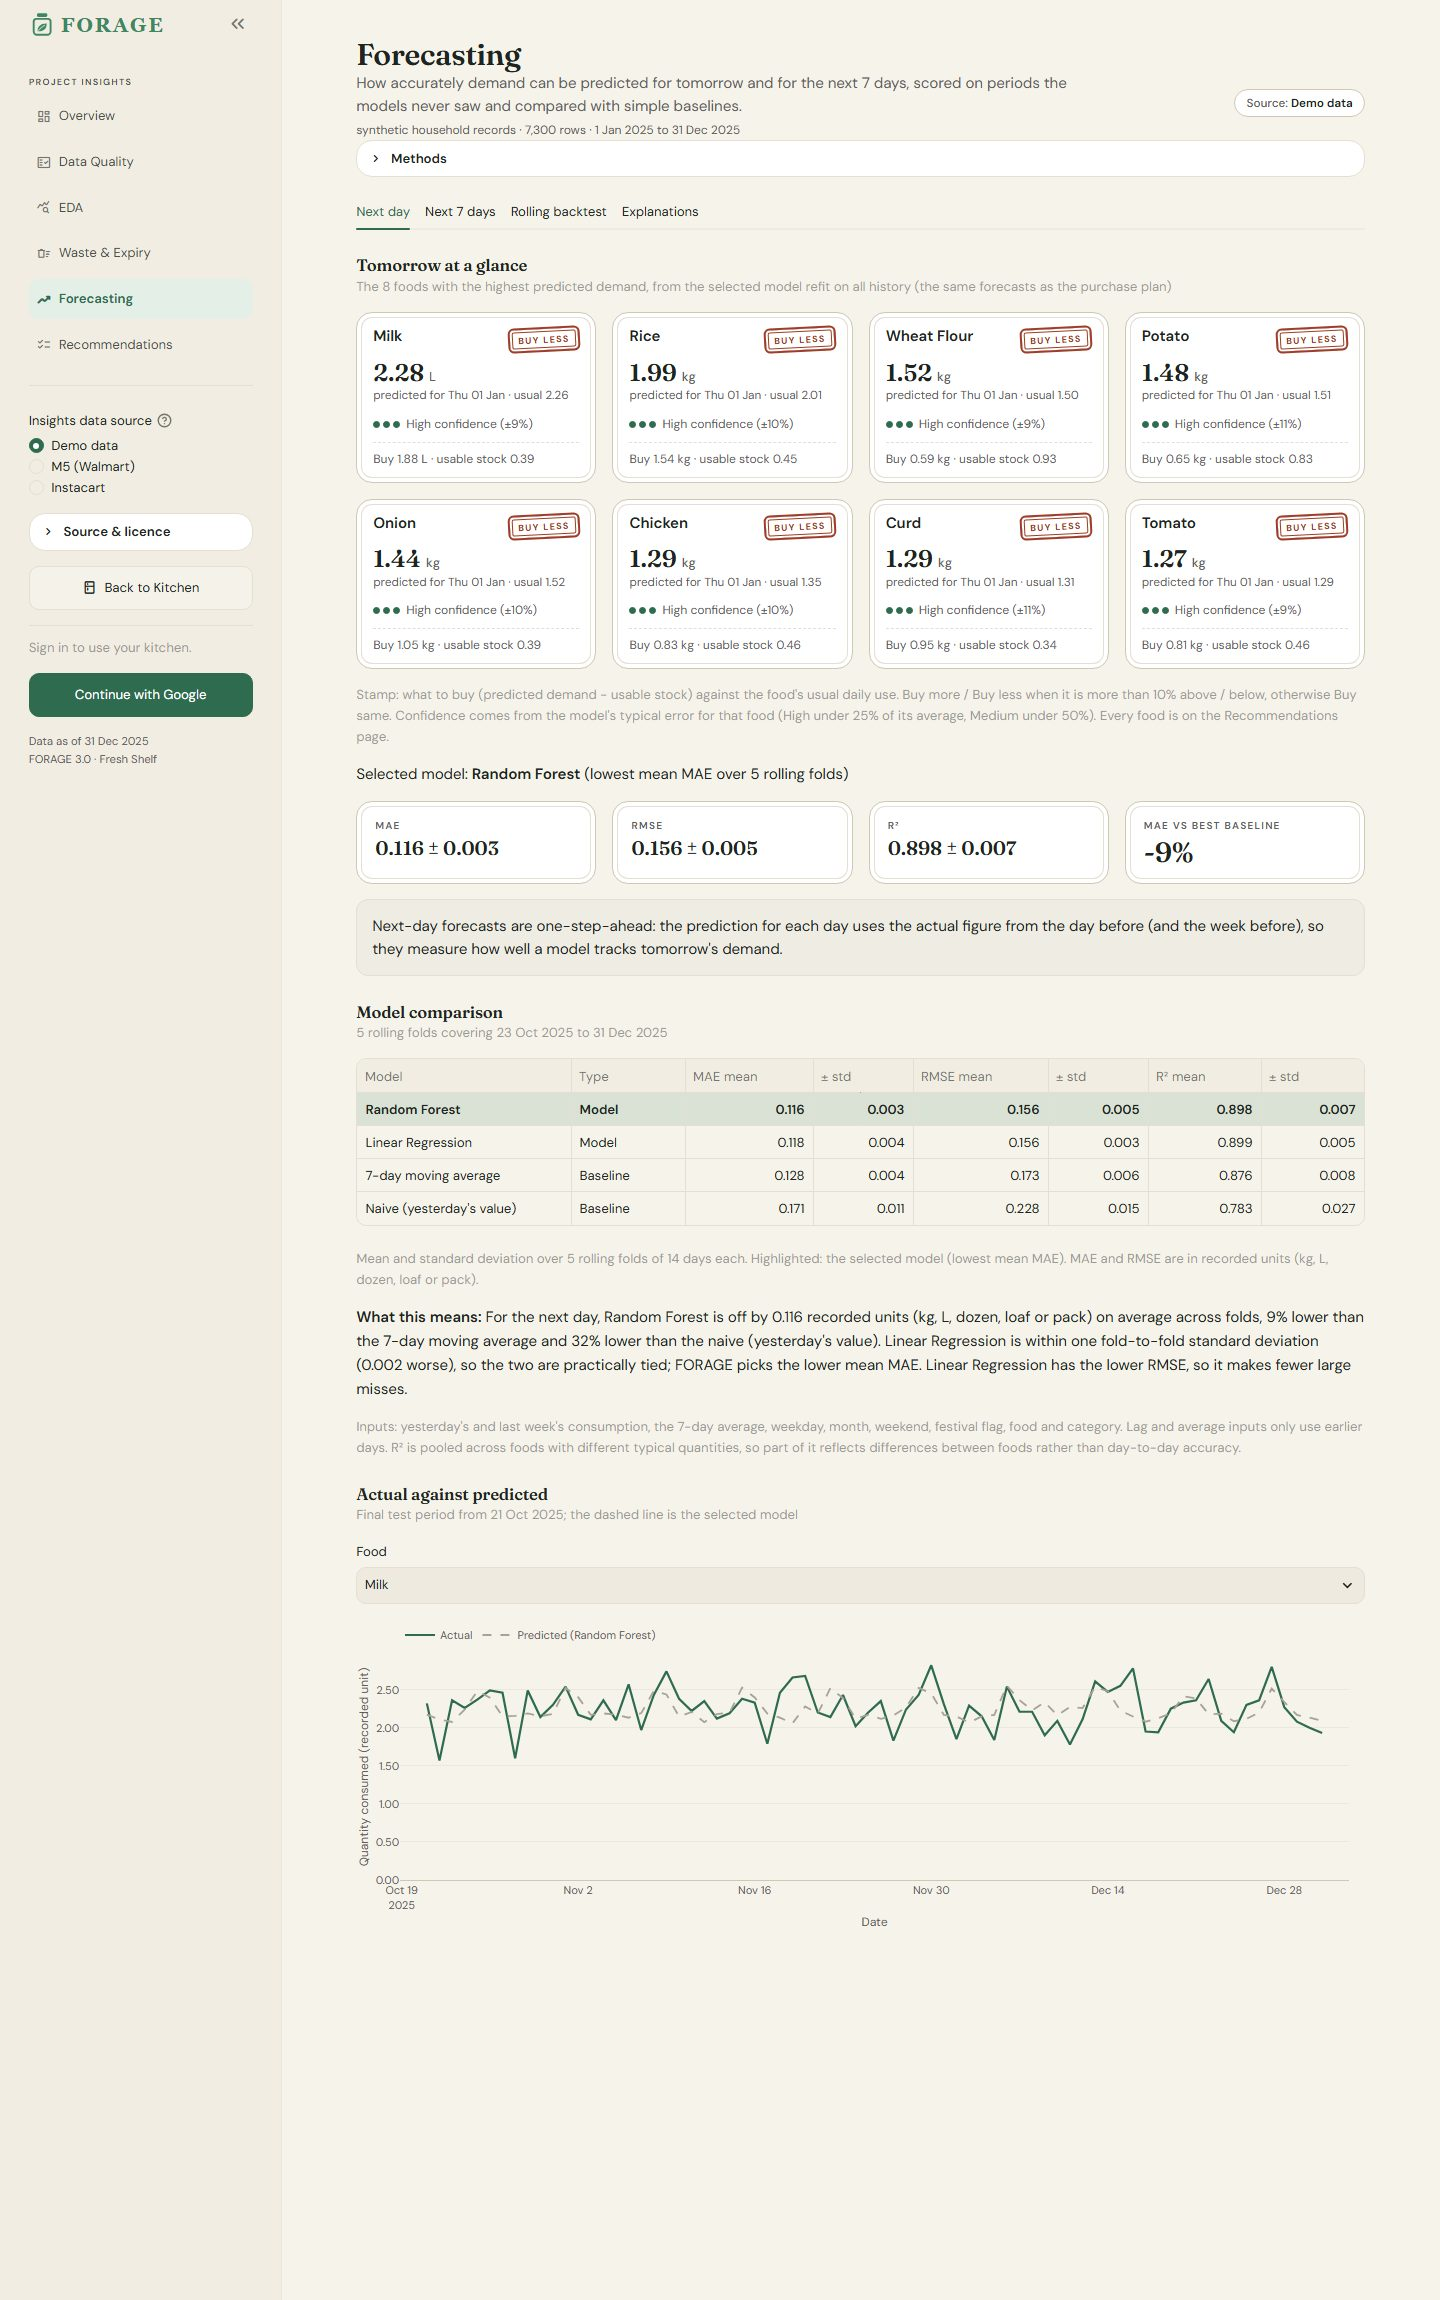
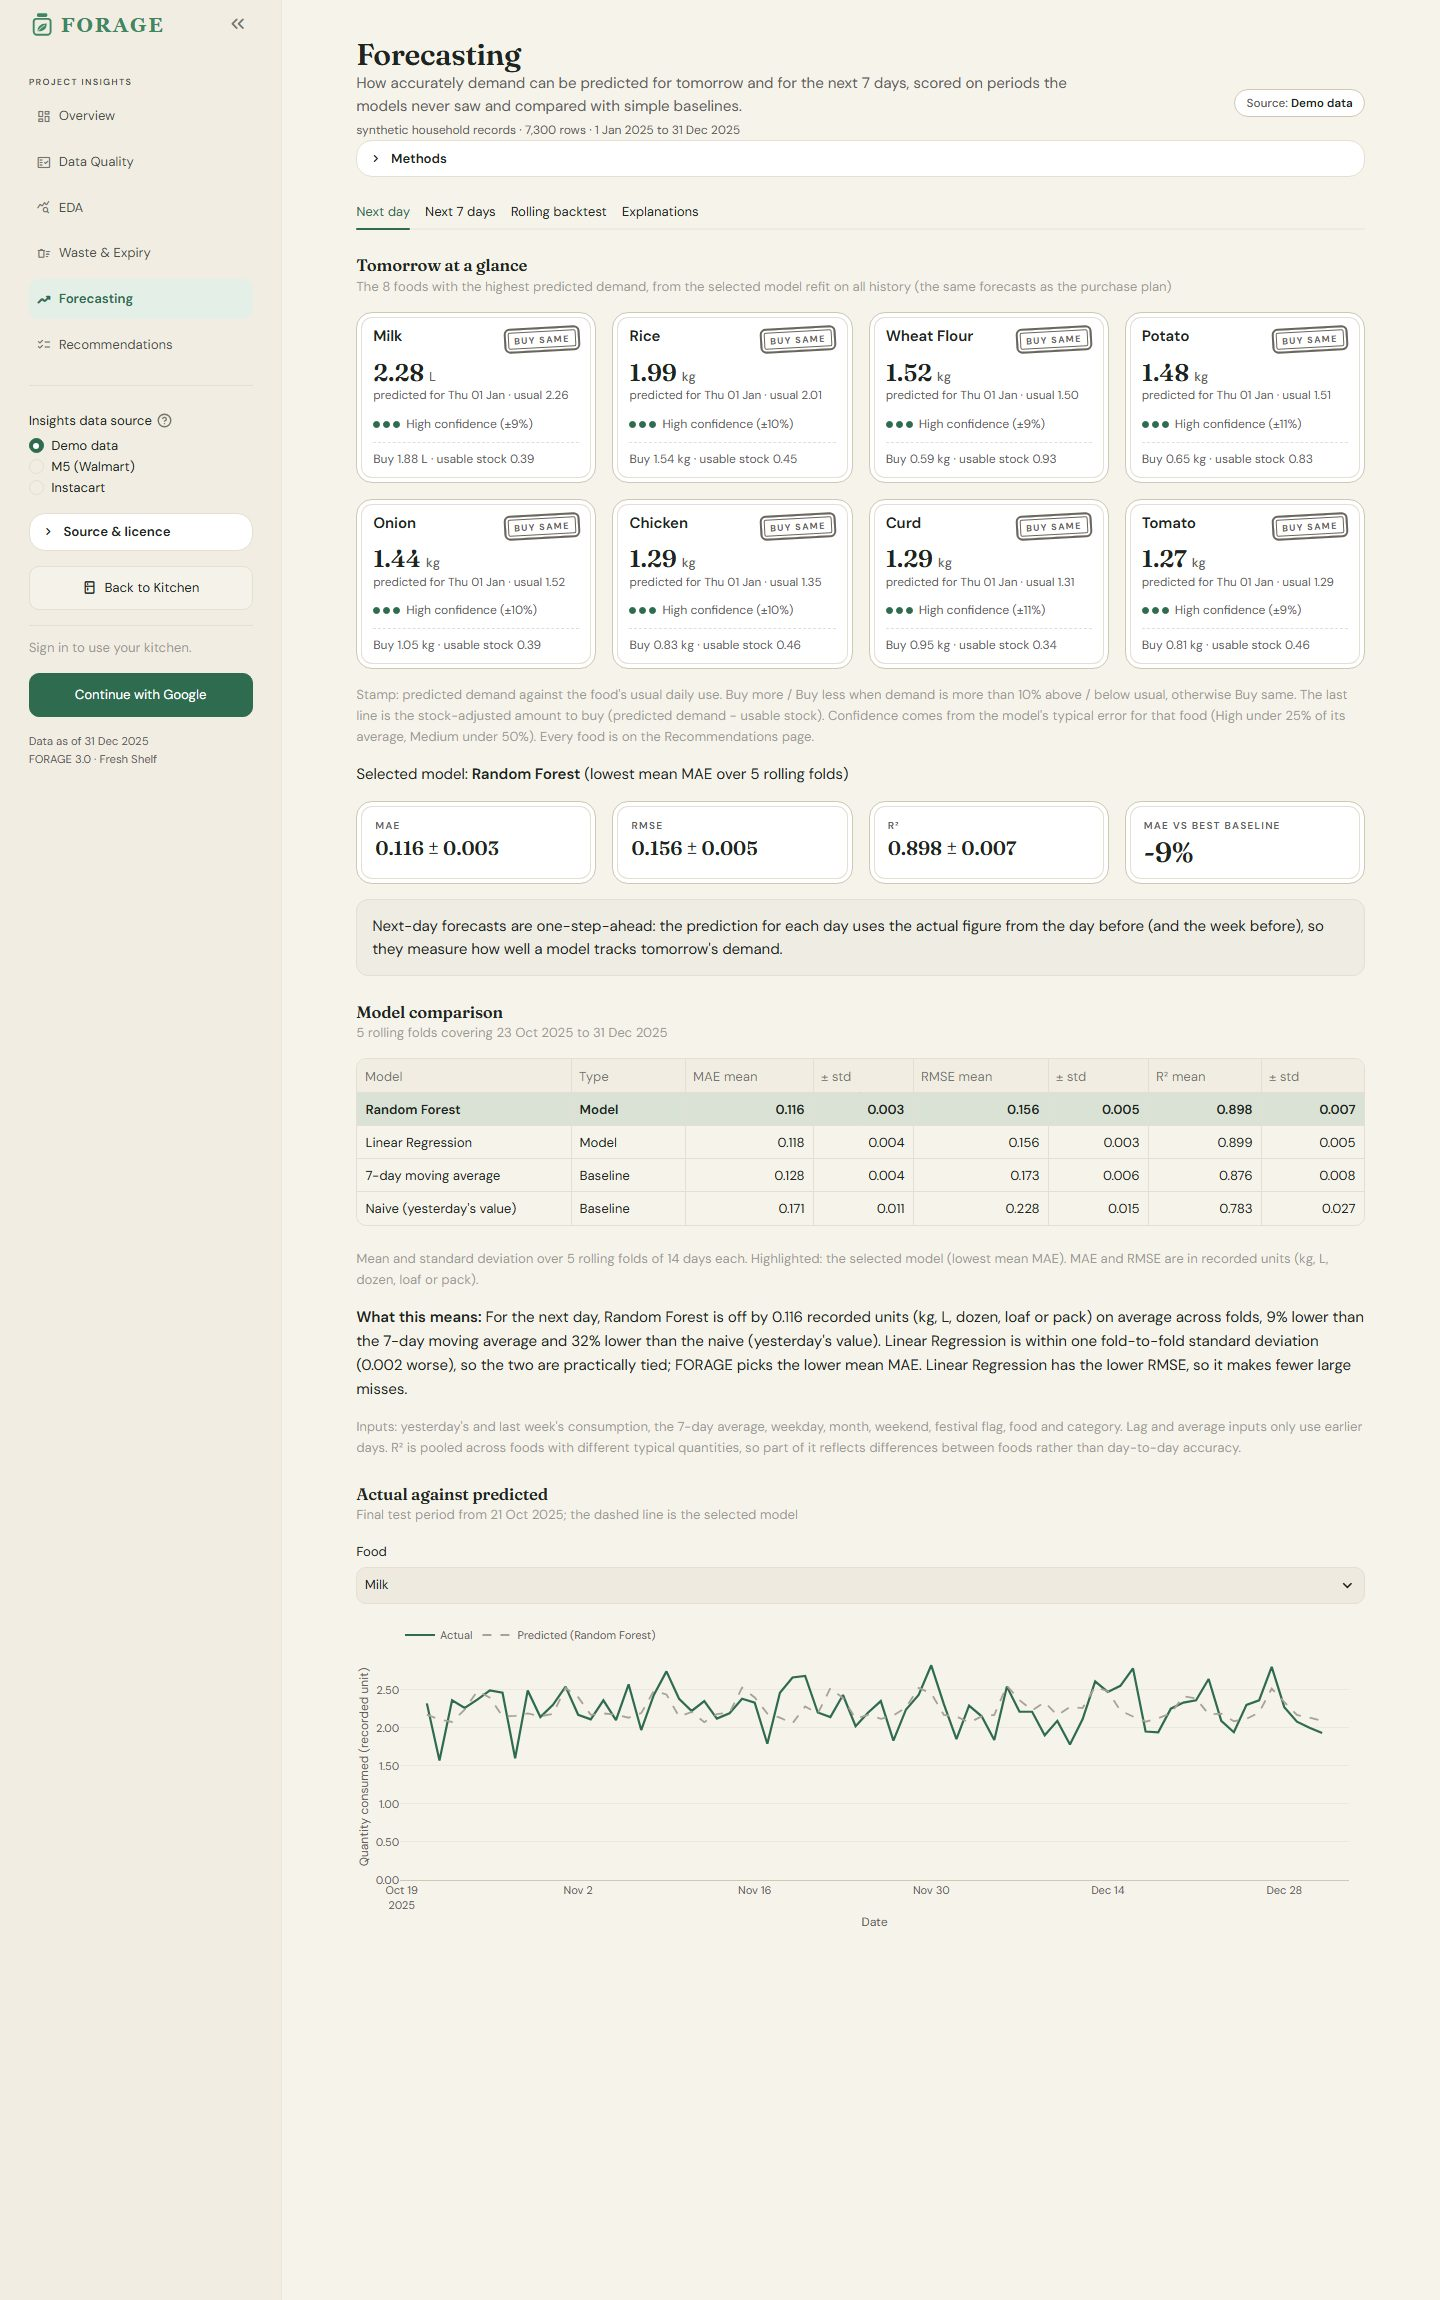
Fresh Shelf fix pass: meter text, demand stamps, wording, phone grid, Overview layout, scatter
- freshness meter: days label above a slim bar, never covered by the fill
- demand stamps: predicted demand vs usual daily use (±10%), same rule on Forecasting and
  Recommendations; the 'Buy X · usable stock Y' line keeps the stock-adjusted amount
- Waste & Expiry: 'Highest waste rate · food / · category'; Overview chart title says 'By ₹'
- phone: KPI label cards in a 2×2 grid (one column below 340 px)
- Overview: action list beside the top-wasted chart, shelves full width side by side
- scatter: day ticks on the log axis (3, 7, 14, 30 ...), top 3 labelled on leader lines
- docs/ui-review screenshots refreshed (crawl: 92 checks, 0 problems)

diff --git a/views/overview.py b/views/overview.py
@@ -65,7 +65,7 @@ def top_wasted(by_food: pd.Series, note: str) -> None:
         return
     share = top.iloc[0] / by_food.sum() * 100 if by_food.sum() else 0
     charts.bar(top.rename_axis("Food").reset_index(), "Food", "Rupees", value_title="₹ wasted",
-               value_format=",.0f", title=f"{top.index[0]} is the costliest waste: {share:.0f}% of all ₹ wasted",
+               value_format=",.0f", title=f"By ₹, {top.index[0]} is the costliest waste: {share:.0f}% of all ₹ wasted",
                subtitle=f"Top {len(top)} foods by ₹ wasted · {note}")
 
 
@@ -74,13 +74,16 @@ def shelves_preview(source: str, df: pd.DataFrame, as_of: pd.Timestamp) -> None:
     groups = shelf_items(source, df, as_of)
     st.html(f'<p class="fs-chart-title">On the shelf</p><p class="fs-chart-sub">As of {fmt_date(as_of)} · '
             "the items needing attention soonest on each shelf</p>")
-    for key, title, _, empty in SHELVES:
-        shelf(title, groups[key], empty=empty, limit=2)
+    for column, (key, title, _, empty) in zip(st.columns(3, gap="medium"), SHELVES):
+        with column:
+            shelf(title, groups[key], empty=empty, limit=2)
     st.page_link("views/waste.py", label="See every shelf", icon=":material/arrow_forward:")
 
 
-def pantry_dashboard(source: str, df: pd.DataFrame, board: dict, now: pd.Period, as_of: pd.Timestamp) -> None:
-    """Demo and My data: four pantry labels, the waste gauge and trend, top wasted foods and the shelves."""
+def pantry_dashboard(source: str, df: pd.DataFrame, board: dict, now: pd.Period, as_of: pd.Timestamp,
+                     actions: list[dict], no_actions: str) -> None:
+    """Demo and My data: four pantry labels, the waste gauge and trend, top wasted foods beside the action
+    list, then the three shelves side by side."""
     from services.pantry_view import label_items, pantry_labels
     illustrative = source == "demo"
     note = "Illustrative (synthetic prices)" if illustrative else "From the prices you paid"
@@ -104,7 +107,8 @@ def pantry_dashboard(source: str, df: pd.DataFrame, board: dict, now: pd.Period,
     with left:
         top_wasted(board["by_food"], note)
     with right:
-        shelves_preview(source, df, as_of)
+        action_list(actions, no_actions)
+    shelves_preview(source, df, as_of)
 
 
 source, df = begin("Overview", "Where food is bought, used and wasted, and what to do next. FORAGE is framed by "
@@ -122,15 +126,15 @@ elif df is not None:
     if source == "demo":
         from services.overview import demo_dashboard
         board = demo_dashboard()
-        pantry_dashboard(source, df, board, df["Date"].max().to_period("M"), df["Date"].max())
-        action_list(board["actions"], "Nothing urgent in the plan. Enjoy your week.")
+        pantry_dashboard(source, df, board, df["Date"].max().to_period("M"), df["Date"].max(), board["actions"],
+                         "Nothing urgent in the plan. Enjoy your week.")
     elif source == "personal":
         from services.overview import personal_dashboard
         from services.personal import personal_data
         board = personal_dashboard(*personal_data())
         today = pd.Timestamp.today().normalize()
-        pantry_dashboard(source, df, board, today.to_period("M"), today)
-        action_list(board["actions"], "Nothing is close to expiring or at risk of being wasted. Nice work.")
+        pantry_dashboard(source, df, board, today.to_period("M"), today, board["actions"],
+                         "Nothing is close to expiring or at risk of being wasted. Nice work.")
     elif source == "m5":
         from services.overview import m5_dashboard
         board = m5_dashboard()

diff --git a/ui/charts.py b/ui/charts.py
@@ -11,6 +11,7 @@ from __future__ import annotations
 
 from html import escape
 
+import numpy as np
 import pandas as pd
 import plotly.graph_objects as go
 import streamlit as st
@@ -195,22 +196,29 @@ def histogram(data: pd.DataFrame, value: str, *, value_title: str, bins: int = 3
 def scatter(data: pd.DataFrame, x: str, y: str, *, x_title: str, y_title: str, label: str,
             log_x: bool = False, height: int | None = None, tooltip: list | None = None, label_extremes: int = 3,
             title: str | None = None, subtitle: str | None = None) -> None:
-    """Scatter with direct labels only on the highest and lowest `label_extremes` points; hover shows the rest."""
+    """Scatter with direct labels only on the `label_extremes` highest points, on short leader lines clear of
+    the dots; hover names every point. A log x-axis gets readable day ticks (1, 3, 7, 14, 30 ...)."""
     palette = colors()
     specs = [_tip_spec(e) for e in (tooltip or [label, f"{x}:Q", f"{y}:Q"])]
     custom = data[[s["field"] for s in specs]].to_numpy()
-    ranked = data[y].rank(method="first")
-    labelled = data[(ranked <= label_extremes) | (ranked > len(data) - label_extremes)]
     fig = go.Figure()
     fig.add_trace(go.Scatter(x=data[x], y=data[y], mode="markers", customdata=custom,
                              marker={"size": 11, "color": palette["accent"], "opacity": 0.85,
-                                         "line": {"width": 1, "color": palette["card"]}},
+                                     "line": {"width": 1, "color": palette["card"]}},
                              hovertemplate=_hover(specs) + "<extra></extra>"))
-    fig.add_trace(go.Scatter(x=labelled[x], y=labelled[y], mode="text", text=labelled[label], textposition="middle right",
-                             textfont={"color": palette["muted"], "size": 11}, hoverinfo="skip", cliponaxis=False))
+    top = data.nlargest(label_extremes, y).sort_values(x) if label_extremes else data.iloc[0:0]
+    for i, (px, py, name) in enumerate(zip(top[x], top[y], top[label])):
+        fig.add_annotation(x=np.log10(px) if log_x else px, y=py, text=str(name), showarrow=True, arrowhead=0,
+                           arrowwidth=1, arrowcolor=palette["axis"], standoff=7, ax=(-1) ** i * 34,
+                           ay=-26 - 12 * (i % 2), font={"color": palette["muted"], "size": 11})
     fig.update_xaxes(title=x_title, type="log" if log_x else "linear", showgrid=True, gridcolor=palette["grid"])
+    if log_x and not data.empty:
+        low, high = data[x].min(), data[x].max()
+        ticks = [t for t in (1, 3, 7, 14, 30, 60, 90, 180, 365, 730) if low / 1.5 <= t <= high * 1.5]
+        fig.update_xaxes(tickvals=ticks, ticktext=[str(t) for t in ticks],
+                         range=[np.log10(low / 1.3), np.log10(high * 1.3)])
     fig.update_yaxes(title=y_title)
-    fig.update_layout(showlegend=False, margin={"r": 72})
+    fig.update_layout(showlegend=False, margin={"r": 64, "t": 48})
     _show(fig, height or HEIGHTS["large"], title, subtitle)
 
 

diff --git a/ui/theme.py b/ui/theme.py
@@ -184,14 +184,15 @@ hr { margin: 0.5rem 0 !important; border-color: var(--fs-line) !important; }
 .fs-chip b { color: var(--fs-text); font-weight: 600; }
 
 /* ---------- 2. Freshness meter ---------- */
-.fs-meter { position: relative; height: 20px; border-radius: 999px; background: var(--fs-stone-tint); overflow: hidden;
-  margin-top: 8px; }
+.fs-meter { position: relative; height: 6px; border-radius: 999px; background: var(--fs-stone-tint); overflow: hidden;
+  margin-top: 4px; }
 .fs-meter-fill { position: absolute; inset: 0 auto 0 0; border-radius: 999px; }
-.fs-meter-fill.fs-fresh { background: var(--fs-fresh-tint); box-shadow: inset -3px 0 0 var(--fs-fresh); }
-.fs-meter-fill.fs-soon { background: var(--fs-soon-tint); box-shadow: inset -3px 0 0 var(--fs-soon); }
-.fs-meter-fill.fs-gone { background: var(--fs-gone-tint); box-shadow: inset -3px 0 0 var(--fs-gone); }
-.fs-meter-text { position: relative; font-size: 0.72rem; font-weight: 700; line-height: 20px; padding: 0 9px;
-  color: var(--fs-text); white-space: nowrap; font-variant-numeric: tabular-nums; }
+.fs-meter-fill.fs-fresh { background: var(--fs-fresh); } .fs-meter-fill.fs-soon { background: var(--fs-soon); }
+.fs-meter-fill.fs-gone { background: var(--fs-gone); }
+.fs-meter-text { font-size: 0.75rem; font-weight: 700; line-height: 1.2; margin-top: 8px; white-space: nowrap;
+  font-variant-numeric: tabular-nums; }
+.fs-meter-text.fs-fresh { color: var(--fs-fresh-text); } .fs-meter-text.fs-soon { color: var(--fs-soon-text); }
+.fs-meter-text.fs-gone { color: var(--fs-gone-text); }
 
 /* ---------- 3. Shelves ---------- */
 .fs-shelf { margin: 4px 0 8px 0; }
@@ -265,10 +266,18 @@ hr { margin: 0.5rem 0 !important; border-color: var(--fs-line) !important; }
   .block-container { padding-left: 1rem; padding-right: 1rem; padding-top: 3.5rem; }
   .fg-pill { float: none; margin: 0.5rem 0 0 0; }
   h1 { font-size: 1.6rem !important; }
-  .fs-labels, .fs-demands { grid-template-columns: 1fr; }
+  .fs-labels { grid-template-columns: repeat(2, minmax(0, 1fr)); gap: 10px; }
+  .fs-label { padding: 12px 12px 10px; }
+  .fs-label-name { font-size: 0.85rem; }
+  .fs-label-compare { font-size: 0.75rem; }
+  .fs-demands { grid-template-columns: 1fr; }
   .fs-shelf-row { grid-template-columns: repeat(auto-fill, minmax(140px, 1fr)); }
-  .fs-label-value { font-size: 1.6rem; }
+  .fs-label-value { font-size: 1.4rem; }
+  .fs-label-value.fs-small { font-size: 1.1rem; }
   [data-testid="stElementToolbar"] { display: none; }
+}
+@media (max-width: 340px) {
+  .fs-labels { grid-template-columns: 1fr; }
 }
 """
 

diff --git a/views/common.py b/views/common.py
@@ -85,9 +85,10 @@ def not_available(source: str, what: str, reason: str, *, alternatives: list[str
 
 
 STAMP_BAND = 10  # % either side of usual use that still counts as "Buy same"
-STAMP_NOTE = ("Stamp: what to buy (predicted demand − usable stock) against the food's usual daily use. Buy more / "
-              "Buy less when it is more than 10% above / below, otherwise Buy same. Confidence comes from the model's "
-              "typical error for that food (High under 25% of its average, Medium under 50%).")
+STAMP_NOTE = ("Stamp: predicted demand against the food's usual daily use. Buy more / Buy less when demand is more "
+              "than 10% above / below usual, otherwise Buy same. The last line is the stock-adjusted amount to buy "
+              "(predicted demand − usable stock). Confidence comes from the model's typical error for that food "
+              "(High under 25% of its average, Medium under 50%).")
 
 
 def demand_stamp(predicted: float, usual: float, band: float = STAMP_BAND) -> str:
@@ -111,8 +112,7 @@ def demo_demand_cards(limit: int | None = None) -> None:
         if "likely to be wasted" in row.Alerts:
             note += f" · waste risk {row.Waste_Risk:.0f}%, buy carefully"
         cards.append(demand_card(row.Food, f"{row.Predicted_Demand:.2f}", row.Quantity_Unit,
-                                 stamp=demand_stamp(row.Recommended_Purchase_Quantity,
-                                                    row.Historical_Average_Consumption),
+                                 stamp=demand_stamp(row.Predicted_Demand, row.Historical_Average_Consumption),
                                  what=f"predicted for {pd.Timestamp(row.Forecast_Date):%a %d %b} · usual "
                                       f"{row.Historical_Average_Consumption:.2f}",
                                  relative_error=error.get(row.Food), note=note))

diff --git a/ui/components.py b/ui/components.py
@@ -131,13 +131,14 @@ def days_text(days_left: float) -> str:
 
 def freshness_bar(days_left: float, horizon: float = 7) -> str:
     """Slim meter: the filled share is the freshness left (days left ÷ shelf life, capped at two weeks so
-    long-life foods still read), coloured by status, with the days written on it so colour is never the only cue."""
+    long-life foods still read), coloured by status, with the days written just above it: colour is never
+    the only cue and the bar never covers the text."""
     status = freshness_status(days_left)
     scale = min(max(horizon, 1), 14)
     share = 1.0 if days_left < 0 else min(max((days_left + 1) / (scale + 1), 0.22), 1.0)
     text = days_text(days_left)
-    return (f'<div class="fs-meter" role="img" aria-label="{text}"><div class="fs-meter-fill fs-{status}" '
-            f'style="width:{share * 100:.0f}%"></div><div class="fs-meter-text">{text}</div></div>')
+    return (f'<div class="fs-meter-text fs-{status}">{text}</div><div class="fs-meter" aria-hidden="true">'
+            f'<div class="fs-meter-fill fs-{status}" style="width:{share * 100:.0f}%"></div></div>')
 
 
 def jar(name: str, quantity: str, days_left: float, horizon: float = 7) -> str:

diff --git a/views/waste.py b/views/waste.py
@@ -78,8 +78,8 @@ elif df is not None:
          + (" Illustrative: the demo prices are synthetic." if illustrative else "")),
         ("Waste rate", fmt_pct(headline["rate"]), "Mean of the food-level rates (wasted ÷ purchased). "
          f"Pooled across all units: {fmt_pct(headline['pooled_rate'])}."),
-        ("Highest-waste food", f"{top['Food']}", f"{fmt_pct(top['Waste_Rate'])} of purchases wasted."),
-        ("Highest-waste category", categories.index[0], f"{fmt_pct(categories.iloc[0]['Waste_Rate'])} on average."),
+        ("Highest waste rate · food", f"{top['Food']}", f"{fmt_pct(top['Waste_Rate'])} of purchases wasted."),
+        ("Highest waste rate · category", categories.index[0], f"{fmt_pct(categories.iloc[0]['Waste_Rate'])} on average."),
         ("Expiring in 7 days", f"{len(soon_7)} foods", f"Foods with stock that expires by {fmt_date(as_of + pd.Timedelta(days=7))}."),
     ])
     formula("waste rate = wasted ÷ purchased × 100")
